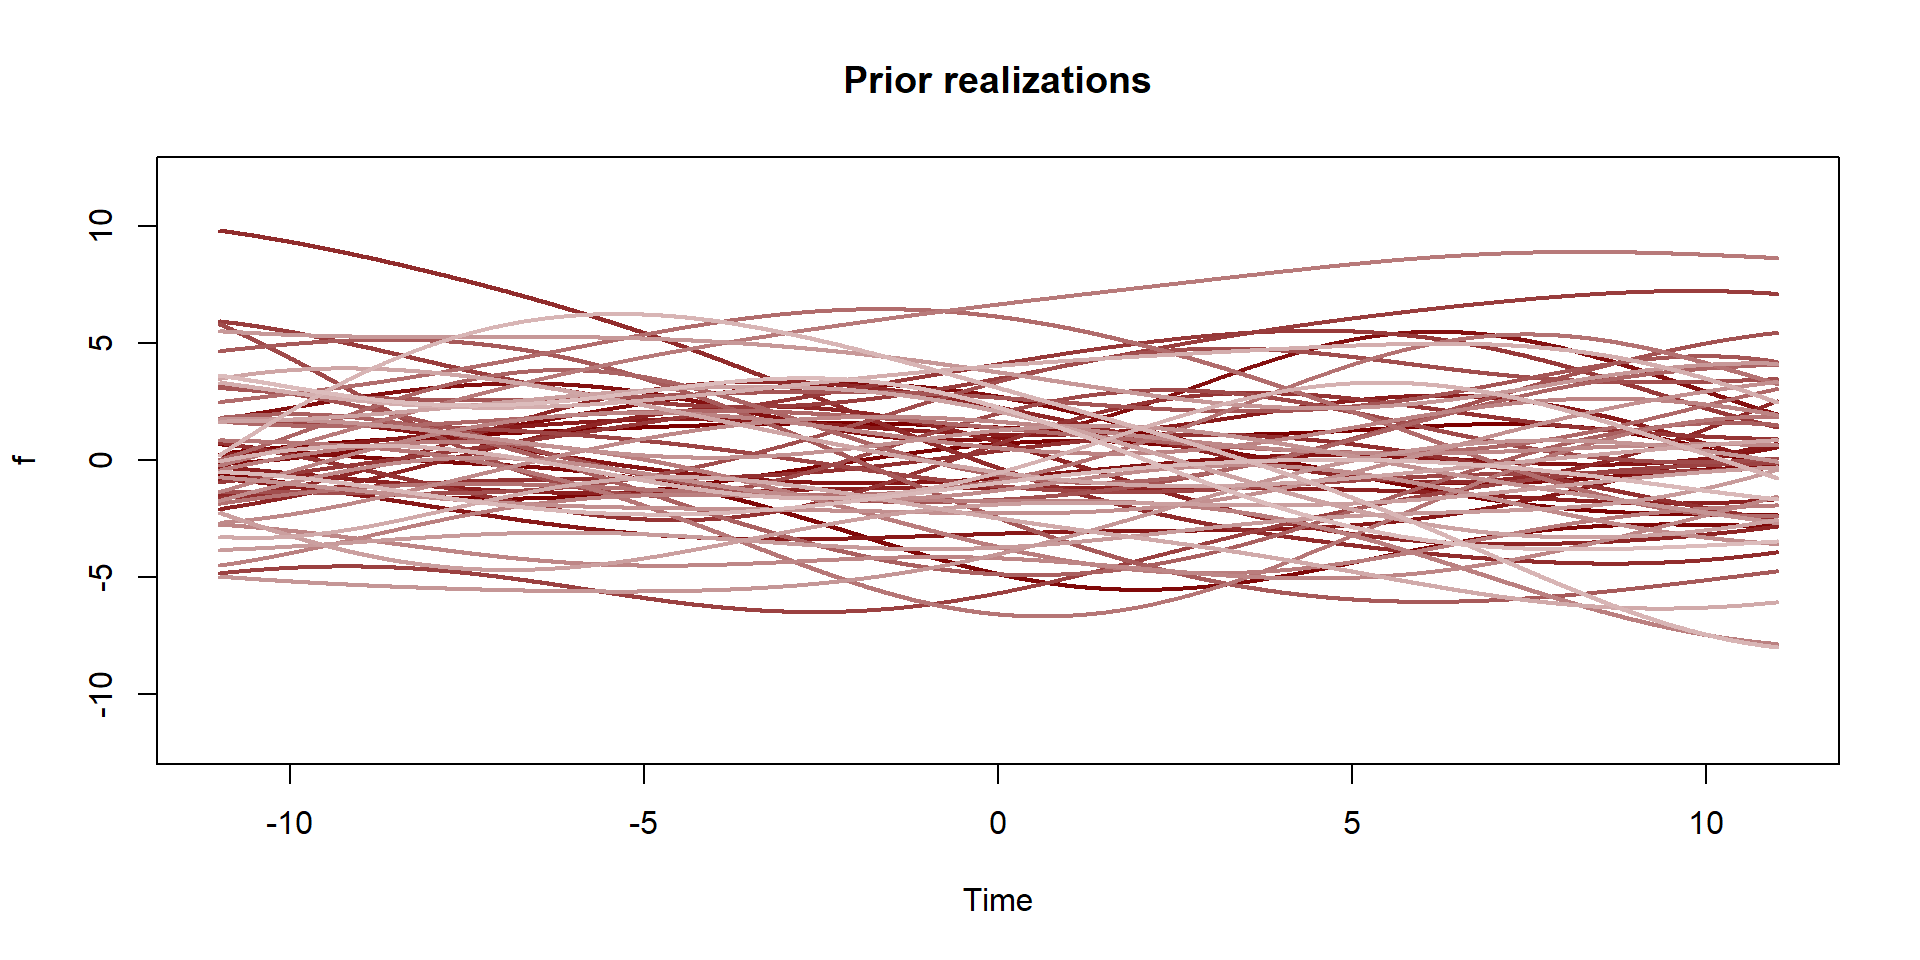
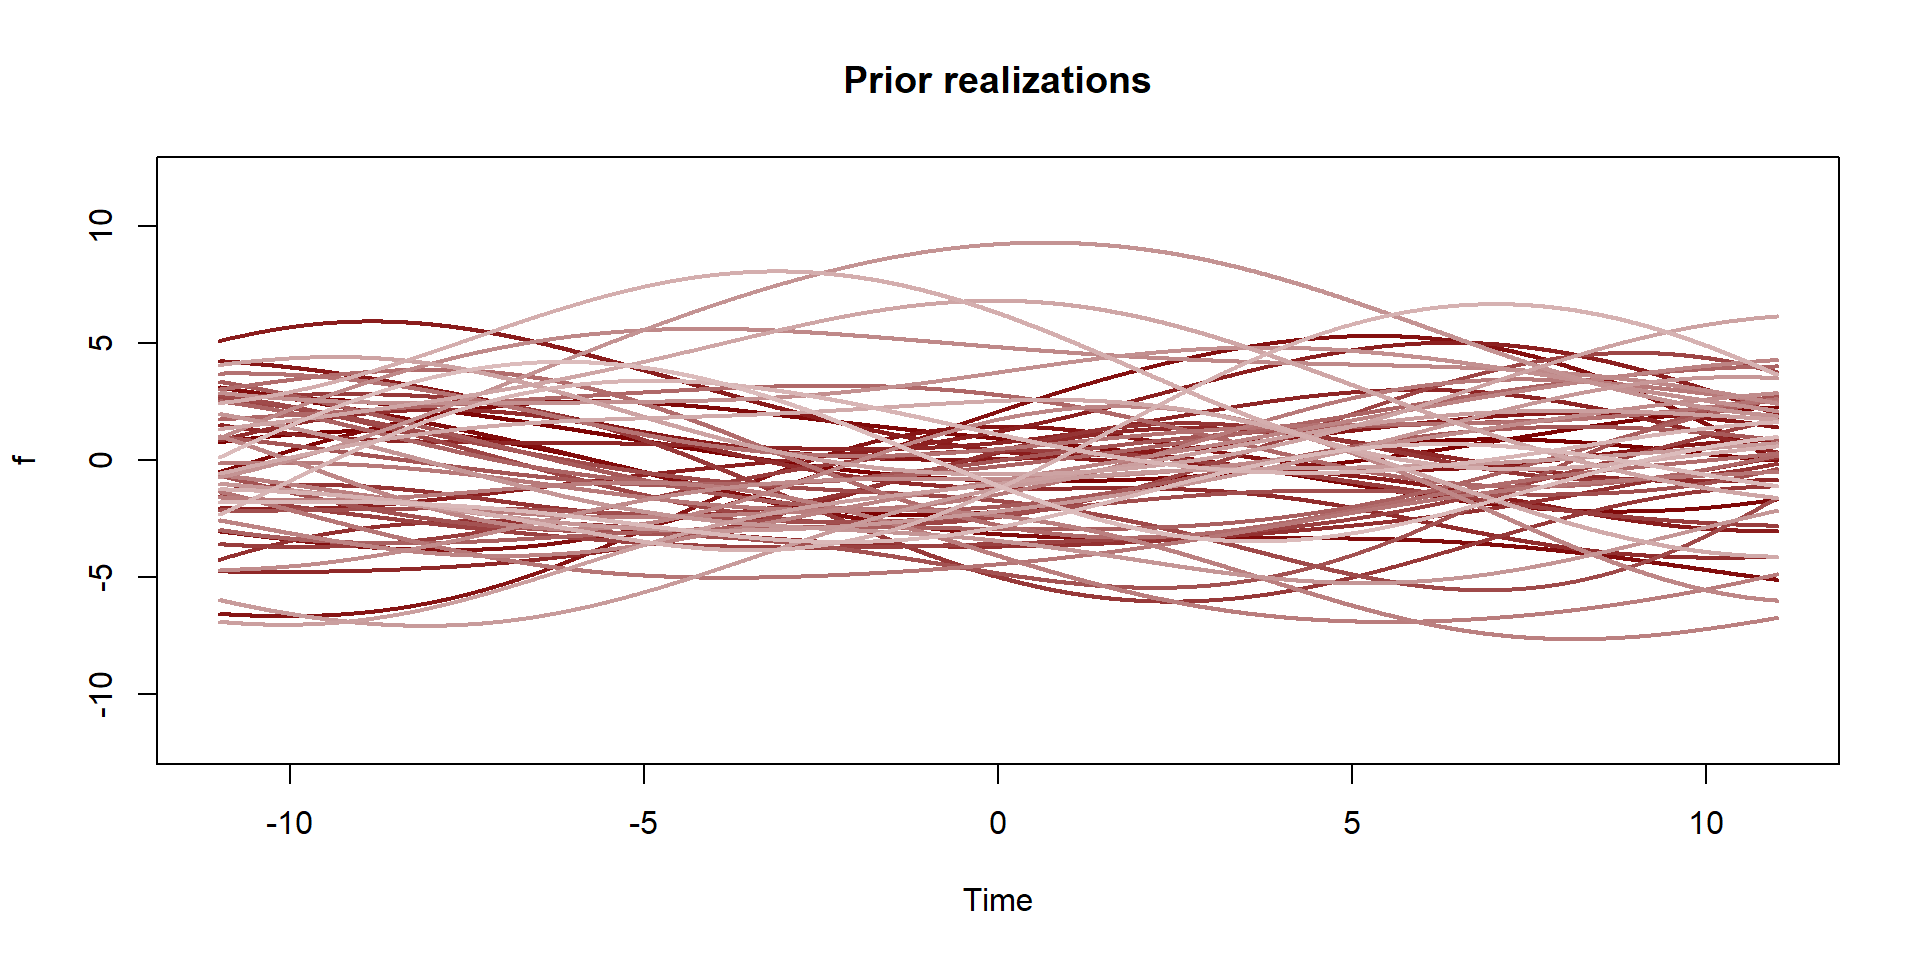
added B-spline plot

Changed region(s): [[0.0938, 0.25, 0.9375, 0.6875], [0.1562, 0.25, 0.2188, 0.2812]]

diff --git a/code/presentation.html b/code/presentation.html
@@ -399,8 +399,11 @@ B_{i,p}(t) :=
 \frac{t - t_{i}}{t_{i+p} - t_{i}} B_{i, p-1}(t)
 + \frac{t_{i+p+1}-t}{t_{i+p+1}-t_{i+1}} B_{i+1, p-1}(t)
 \]</span> <span class="math display">\[\text{where,} \; t \; \text{is the covariate and} \; p \; \text{is the degree of the polynomial.}\]</span></p>
+</section>
+<section id="b-spline-model-plot" class="slide level2">
+<h2>B-spline model plot</h2>
 
-<img data-src="presentation_files/figure-revealjs/Spline-model-1.png" width="960" class="r-stretch"></section>
+<img data-src="presentation_files/figure-revealjs/B-spline-1.png" width="960" class="r-stretch"></section>
 <section id="discussion-1" class="slide level2">
 <h2>Discussion</h2>
 <h3 id="problem-1">Problem</h3>
